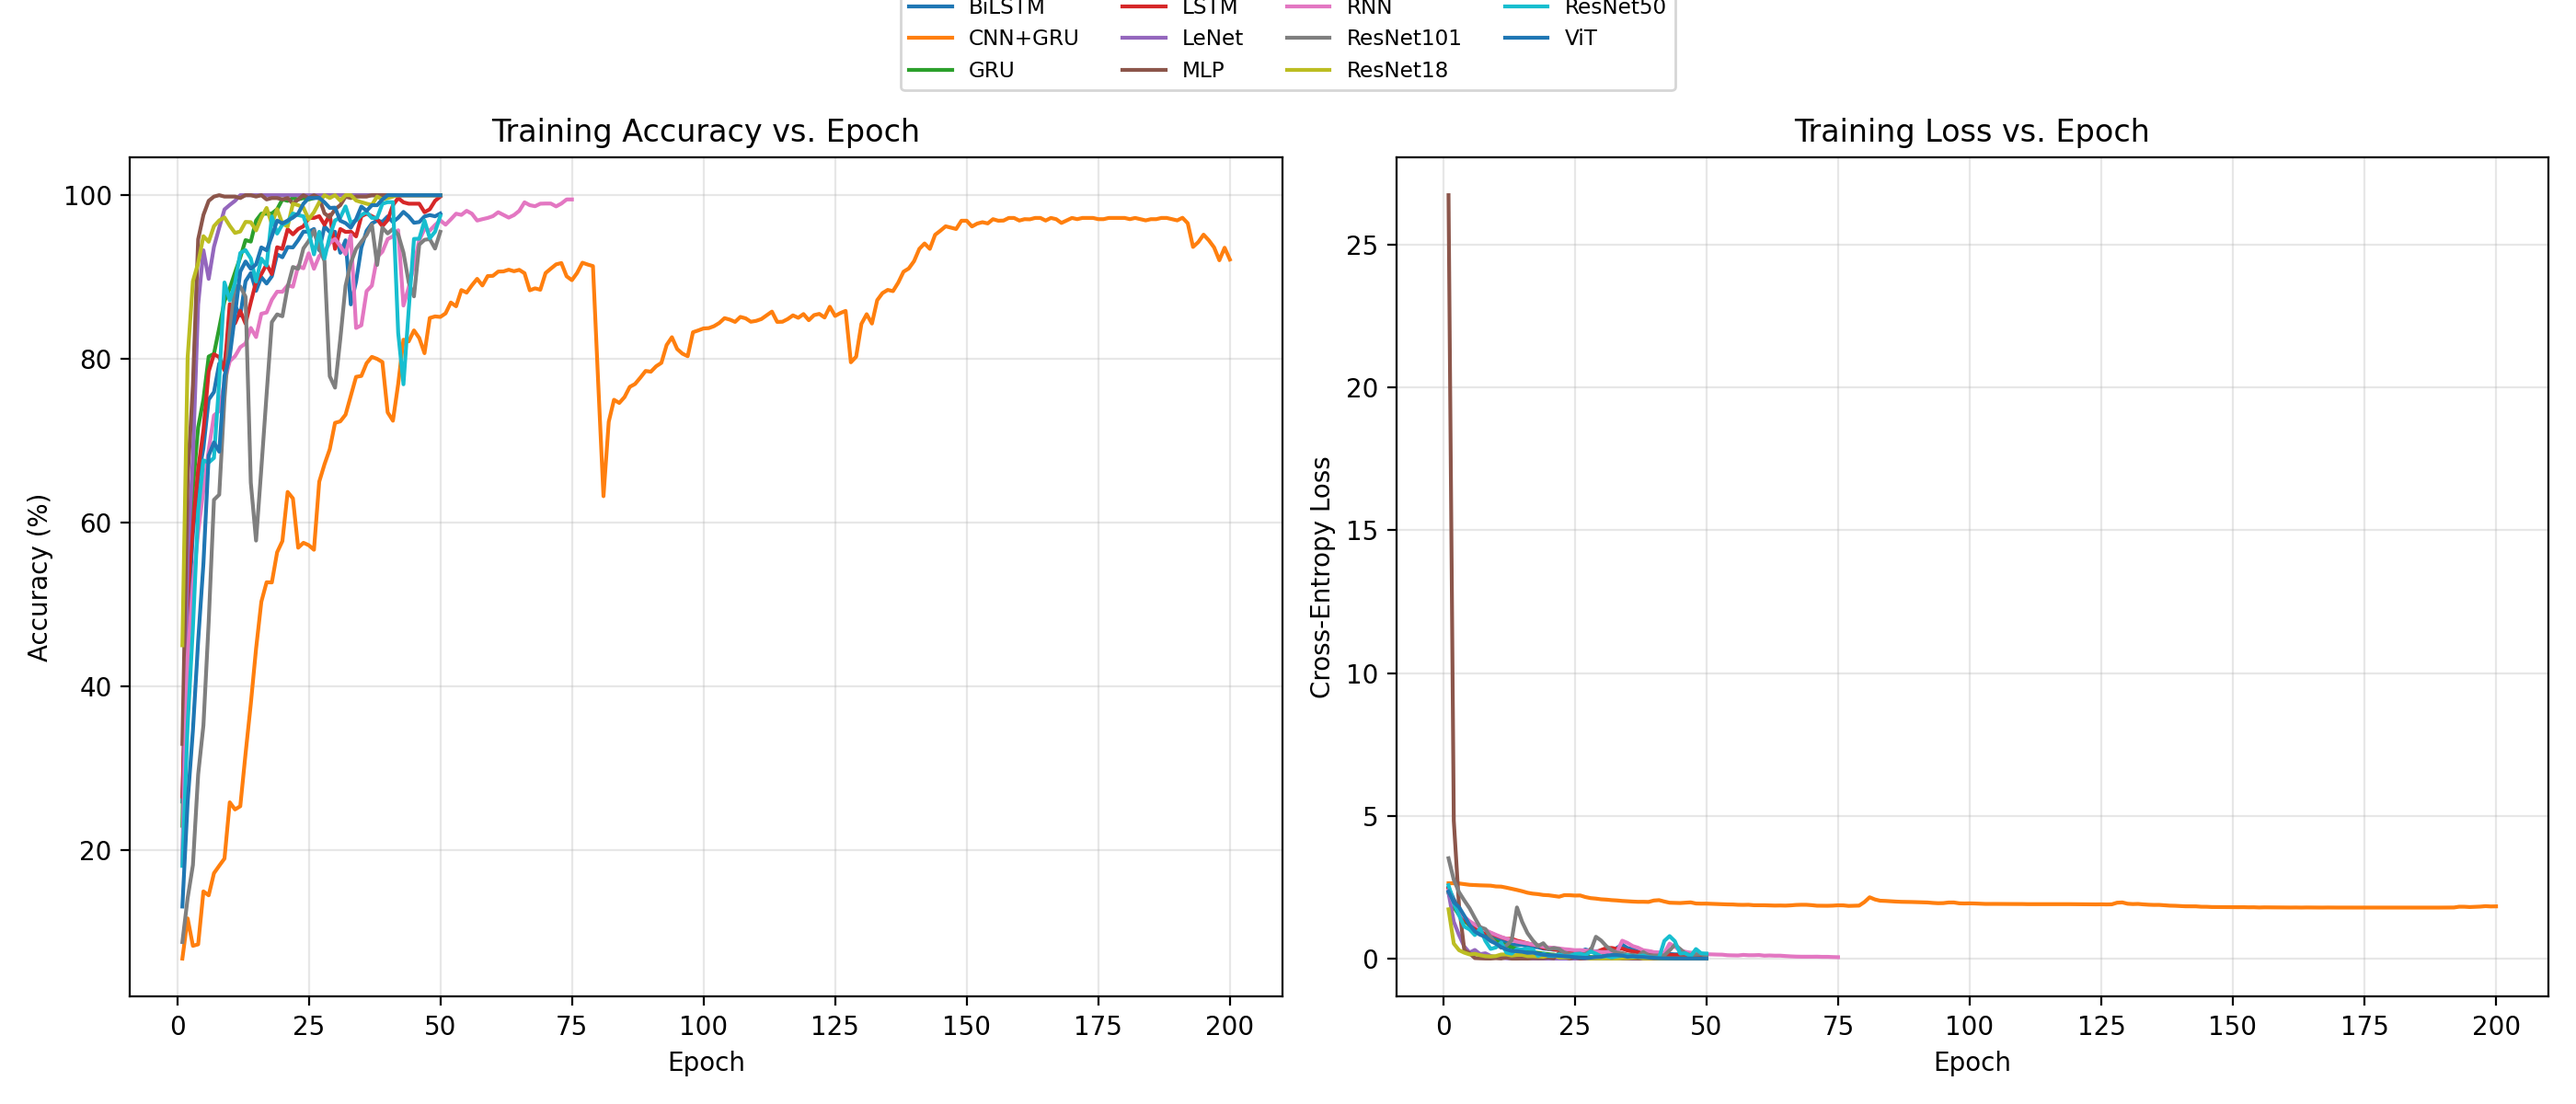
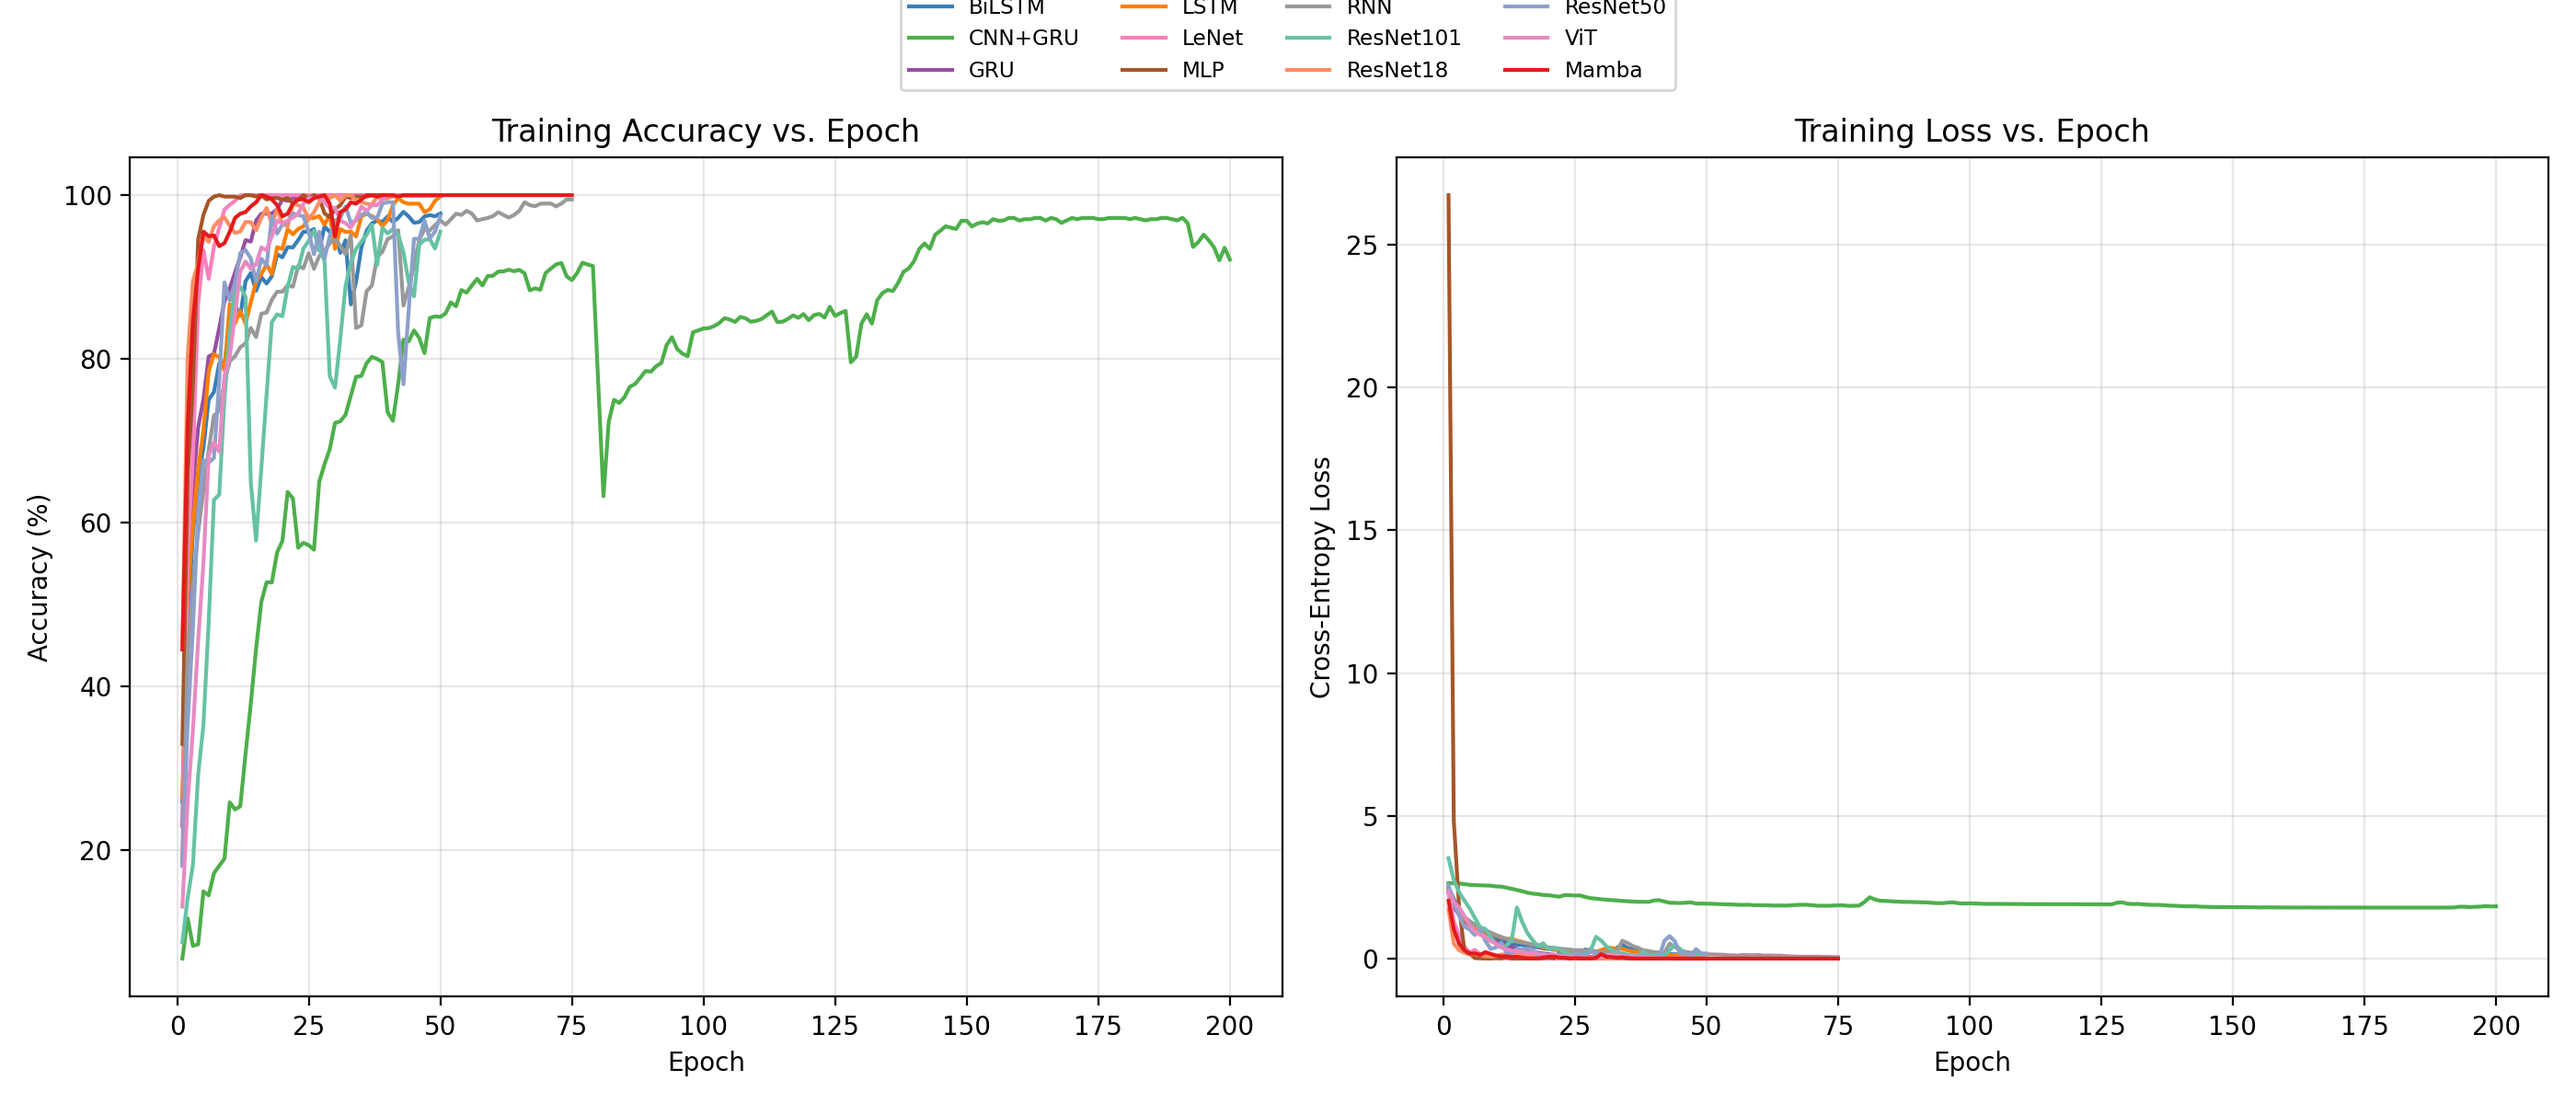
Add Mamba model metrics and update plotting functions for validation accuracy and training curves

diff --git a/plot_ntu_fi_results.py b/plot_ntu_fi_results.py
@@ -102,7 +102,48 @@ def collect_logs(log_dir: pathlib.Path) -> Dict[str, Dict[str, object]]:
     return results
 
 
-def plot_validation_bar(results: Dict[str, Dict[str, object]], out_path: pathlib.Path) -> None:
+MAMBA_COLOR = "#e41a1c"  # strong red to highlight the new model prominently
+BASE_COLORS = [
+    "#377eb8",
+    "#4daf4a",
+    "#984ea3",
+    "#ff7f00",
+    "#f781bf",
+    "#a65628",
+    "#999999",
+    "#66c2a5",
+    "#fc8d62",
+    "#8da0cb",
+    "#e78ac3",
+    "#a6d854",
+    "#ffd92f",
+    "#e5c494",
+    "#b3b3b3",
+]
+
+
+def _cycle_colors(count: int) -> List[str]:
+    if count <= len(BASE_COLORS):
+        return BASE_COLORS[:count]
+    repeats = (count + len(BASE_COLORS) - 1) // len(BASE_COLORS)
+    return (BASE_COLORS * repeats)[:count]
+
+
+def build_model_palette(models: List[str]) -> Dict[str, tuple]:
+    palette: Dict[str, tuple] = {}
+    if "Mamba" in models:
+        palette["Mamba"] = MAMBA_COLOR
+    remaining_models = [m for m in sorted(models) if m not in palette]
+    for model, color in zip(remaining_models, _cycle_colors(len(remaining_models))):
+        palette[model] = color
+    return palette
+
+
+def plot_validation_bar(
+    results: Dict[str, Dict[str, object]],
+    out_path: pathlib.Path,
+    palette: Dict[str, tuple],
+) -> None:
     """Create a horizontal bar chart of validation accuracies."""
     data = sorted(
         [(model, stats["val_acc"]) for model, stats in results.items()],
@@ -111,14 +152,13 @@ def plot_validation_bar(results: Dict[str, Dict[str, object]], out_path: pathlib
     models, accuracies = zip(*data)
     accuracies_pct = [acc * 100 for acc in accuracies]
 
-    cmap = plt.get_cmap("tab20")
-    colors = [cmap(i % cmap.N) for i in range(len(models))]
+    colors = [palette[model] for model in models]
 
     fig, ax = plt.subplots(figsize=(14, 6))
-    bars = ax.barh(models, accuracies_pct, color=colors, alpha=0.85)
+    bars = ax.barh(models, accuracies_pct, color=colors, alpha=0.9)
     ax.set_xlabel("Validation Accuracy (%)")
-    ax.set_title("NTU-Fi HumanID Validation Accuracy (non-SSM models)")
-    ax.set_xlim(0, 105)
+    ax.set_title("NTU-Fi HumanID Validation Accuracy")
+    ax.set_xlim(0, 108)
     for bar, acc in zip(bars, accuracies_pct):
         ax.text(
             bar.get_width() + 1,
@@ -126,7 +166,6 @@ def plot_validation_bar(results: Dict[str, Dict[str, object]], out_path: pathlib
             f"{acc:.1f}%",
             va="center",
         )
-    # Add a legend mapping colors to models for clarity.
     legend = ax.legend(
         bars,
         models,
@@ -141,7 +180,11 @@ def plot_validation_bar(results: Dict[str, Dict[str, object]], out_path: pathlib
     plt.close(fig)
 
 
-def plot_training_curves(results: Dict[str, Dict[str, object]], out_path: pathlib.Path) -> None:
+def plot_training_curves(
+    results: Dict[str, Dict[str, object]],
+    out_path: pathlib.Path,
+    palette: Dict[str, tuple],
+) -> None:
     """Plot accuracy + loss learning curves for every model."""
     plt.figure(figsize=(14, 6))
     ax_acc = plt.subplot(1, 2, 1)
@@ -149,8 +192,9 @@ def plot_training_curves(results: Dict[str, Dict[str, object]], out_path: pathli
 
     for model, stats in results.items():
         epochs = stats["epochs"]
-        ax_acc.plot(epochs, [a * 100 for a in stats["train_acc"]], label=model)
-        ax_loss.plot(epochs, stats["train_loss"], label=model)
+        color = palette[model]
+        ax_acc.plot(epochs, [a * 100 for a in stats["train_acc"]], label=model, color=color)
+        ax_loss.plot(epochs, stats["train_loss"], label=model, color=color)
 
     ax_acc.set_title("Training Accuracy vs. Epoch")
     ax_acc.set_xlabel("Epoch")
@@ -217,8 +261,9 @@ def main():
     curves_path = args.out_dir / "training_curves.png"
     metrics_path = args.out_dir / "parsed_metrics.json"
 
-    plot_validation_bar(results, bar_path)
-    plot_training_curves(results, curves_path)
+    palette = build_model_palette(list(results.keys()))
+    plot_validation_bar(results, bar_path, palette)
+    plot_training_curves(results, curves_path, palette)
     save_metrics(results, metrics_path)
     print(f"Wrote validation chart -> {bar_path}")
     print(f"Wrote training curves -> {curves_path}")
